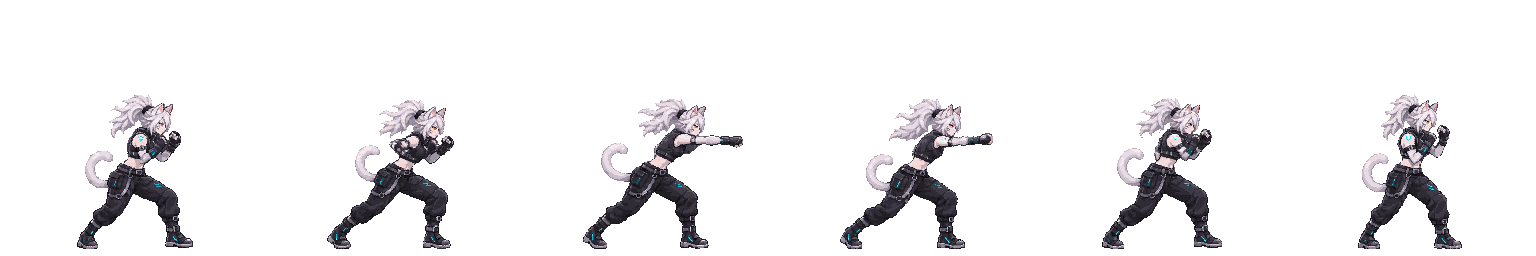
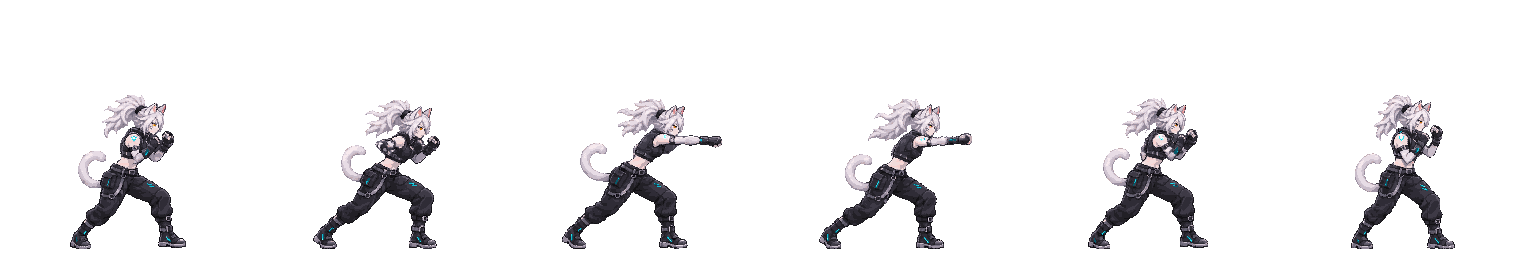
fix(feline) : le poing du direct s'arrête au bout de sa hitbox
Le corps recule pendant l'extension (pied arrière glissé de 7 à 21 px) : le poing
dessiné atteint 41 px au lieu de 51,5, pour une hitbox qui finit à 40.
Allonger la hitbox cassait 31 routes de l'IA ; les données de combat sont intactes.

Claude-Session: https://claude.ai/code/session_01JBLzLMjZS6VPwWpKajS2YB

diff --git a/src/art/feline/cells.ts b/src/art/feline/cells.ts
@@ -226,14 +226,14 @@ export const FELINE_CELLS: Readonly<Record<string, Cell>> = {
   standLight: {
     width: 164,
     height: 158,
-    anchor: { x: 59, y: 155 },
+    anchor: { x: 80, y: 155 },
     frames: [
-      { x: 8, y: 2, width: 116, height: 154 },
-      { x: 2, y: 7, width: 127, height: 149 },
+      { x: 22, y: 2, width: 116, height: 154 },
+      { x: 9, y: 7, width: 127, height: 149 },
       { x: 2, y: 6, width: 160, height: 150 },
       { x: 3, y: 6, width: 153, height: 150 },
-      { x: 9, y: 5, width: 120, height: 151 },
-      { x: 9, y: 2, width: 104, height: 154 },
+      { x: 16, y: 5, width: 120, height: 151 },
+      { x: 23, y: 2, width: 104, height: 154 },
     ],
   },
   standHeavy: {
